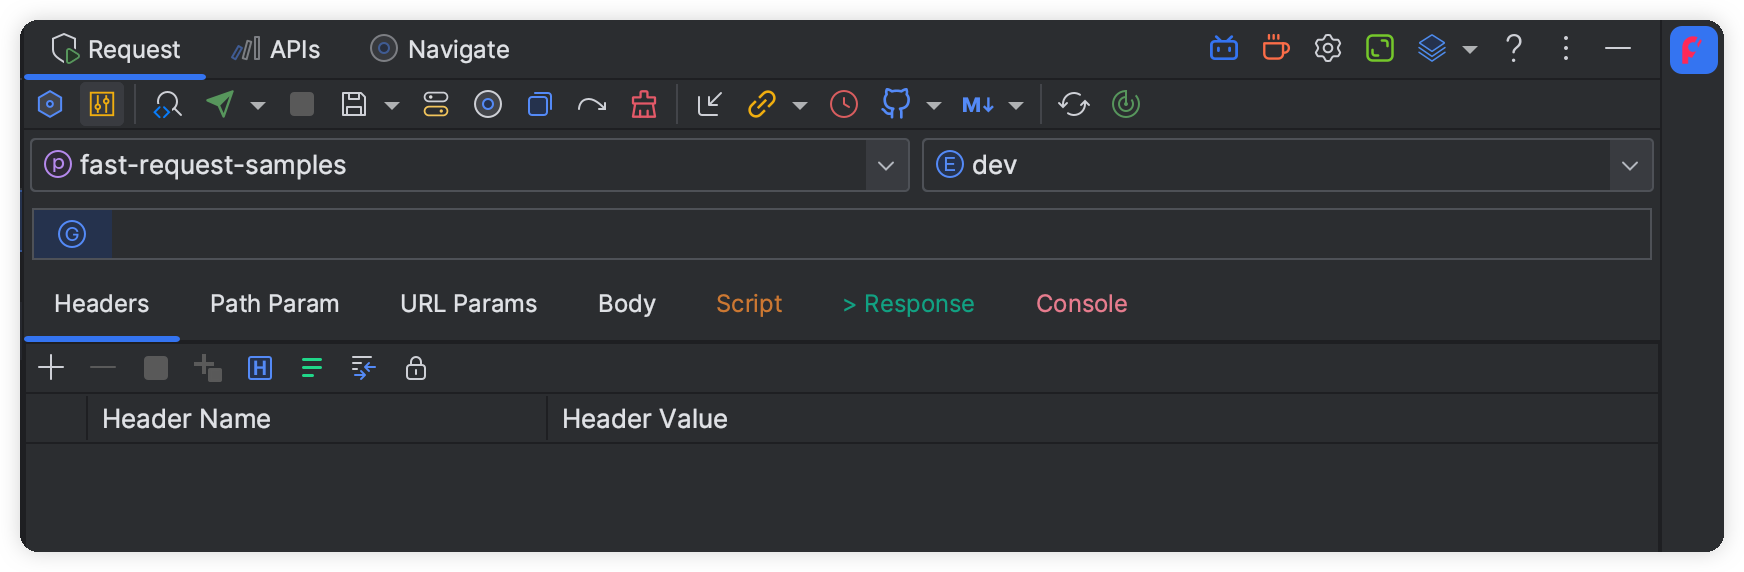
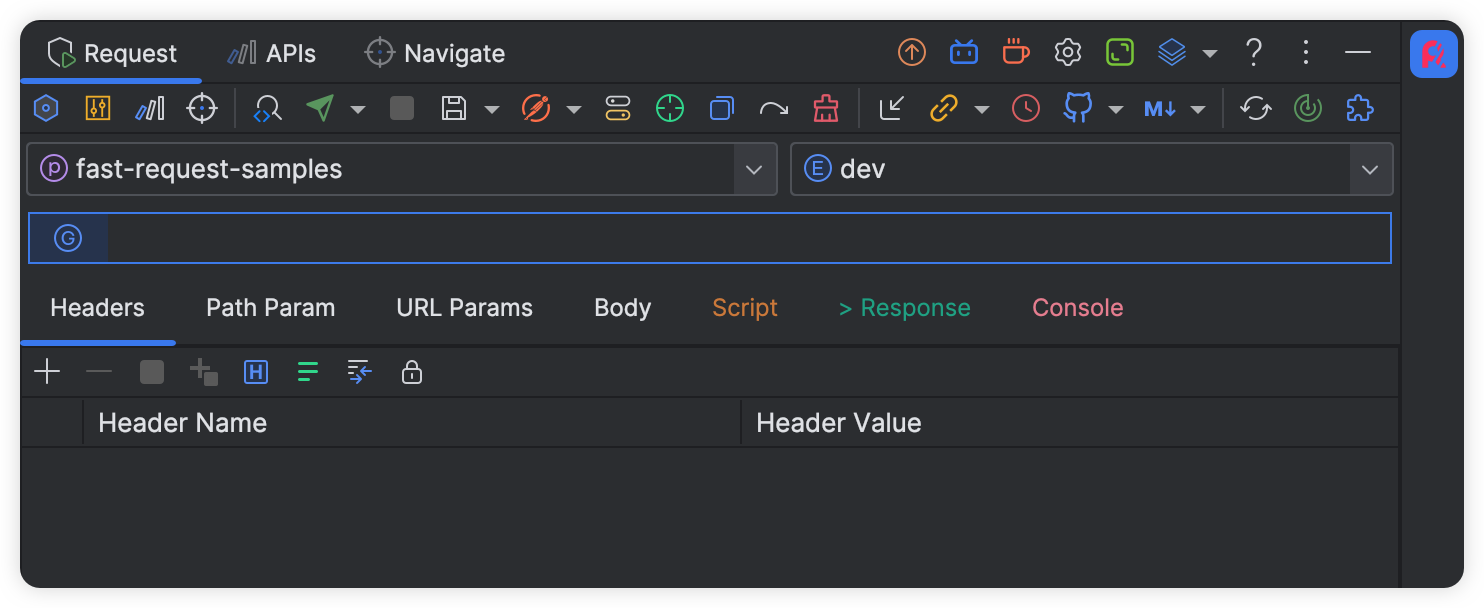
some doc

diff --git a/docs/.vuepress/sidebar.ts b/docs/.vuepress/sidebar.ts
@@ -65,6 +65,7 @@ export const enSidebar = sidebar({
         "ai",
         "headerGroup",
         "bulkEdit",
+        "customToolbar",  
         "jsonGrammarCheck",
       ],
     },
@@ -147,7 +148,8 @@ export const zhSidebar = sidebar({
         "autoDomain",
         "ai",
         "headerGroup",
-        "bulkEdit",
+        "bulkEdit", 
+        "customToolbar",
         "jsonGrammarCheck",
       ],
     },

diff --git a/docs/.vuepress/config.ts b/docs/.vuepress/config.ts
@@ -30,7 +30,7 @@ export default defineUserConfig({
     ],
     [
       "script",
-      { src: "//at.alicdn.com/t/c/font_2601581_8pffk35qiba.js", async: true },
+      { src: "//at.alicdn.com/t/c/font_2601581_qwqvhwcqtsl.js", async: true },
     ],
     // ["script", { src: "/js/baidu.js" ,"async":true}],
     ["script", { src: "/js/gtag.js", async: true }],

diff --git a/docs/en/guide/features/README.md b/docs/en/guide/features/README.md
@@ -6,27 +6,26 @@ icon: featuresNew
 
 The icon in the document corresponds to the button icon in the plugin
 
-![toolwindow](/img/toolwindowNew.png)
+![toolwindow](/img/toolwindowNew_en.png)
 
 ## Request
 
 - [<ColorIcon icon="restfulFastRequest" /> Make icon move](./makeIconMove.md)
 - [<ColorIcon icon="domainConfigNew" /> Project-level domain config](./projectLevelDomainConfig.md)
 - [<ColorIcon icon="environment" /> Environment](./environment.md)
-- [<ColorIcon icon="rcd-refresh" /> Project config refresh](./projectConfigRefresh.md)
 - [<ColorIcon icon="quanjucanshu" /> Project-level config](./projectValueConfig.md)
 - [<ColorIcon icon="searchApi" /> SearchEveryWhere](./searchEveryWhere.md)
-- [<ColorIcon icon="apiParamGroupNew" /> API group toggle](./apiGroup.md)
 - [<ColorIcon icon="sendNew" /> Debug API & send request](./debugApi.md)
 - [<ColorIcon icon="sendDownloadNew" /> Download file](./downloadApi.md)
 - [<ColorIcon icon="stop" /> Stop API request](./stopRequest.md)
-- [<ColorIcon icon="localScope" /> Navigate to current method](./navigateCurrentMethod.md)
-- [<ColorIcon icon="storeData" /> Navigate current method stored data](./navigateCurrentMethodJson.md)
 - [<ColorIcon icon="save" /> Save request](./saveRequest.md)
 - [<ColorIcon icon="saveGroup" /> Save API group](./apiGroup.md)
 - [<ColorIcon icon="saveTemp" /> Temporary request](./tempRequest.md)
-- [<ColorIcon icon="regenerate" /> Re generate](./regenerate.md)
 - [<ColorIcon icon="postmanNew" /> Postman sync](./postmanSync.md)
+- [<ColorIcon icon="apiParamGroupNew" /> API group toggle](./apiGroup.md)
+- [<ColorIcon icon="locate" /> Navigate to current method](./navigateCurrentMethod.md)
+- [<ColorIcon icon="storeData" /> Navigate current method stored data](./navigateCurrentMethodJson.md) 
+- [<ColorIcon icon="regenerate" /> Re generate](./regenerate.md)
 - [<ColorIcon icon="clearNew" /> Clear](./clear.md)
 - [<ColorIcon icon="import" /> cURL import](./curlImport.md)
 - [<ColorIcon icon="curl1" /> cURL copy](./copyCurl.md)
@@ -35,9 +34,14 @@ The icon in the document corresponds to the button icon in the plugin
 - [<ColorIcon icon="github" /> <ColorIcon icon="gitee" /> <ColorIcon icon="gitlab" /> API document sync](./apiDocSync.md)
 - [<ColorIcon icon="markdown" /> API document share](./shareApiDoc.md)
 - [<ColorIcon icon="settings" /> Markdown doc template config](./markdownDocTemplateConfig.md)
+- [<ColorIcon icon="rcd-refresh" /> Project config refresh](./projectConfigRefresh.md)
+- [<ColorIcon icon="analyseNew" /> Annual report](./annualReport.md)
+- [<ColorIcon icon="customToolbar" /> Custom toolbar](./customToolbar.md)
+
+---
+
 - [<ColorIcon icon="settings" /> Setting manager](./settingManager.md)
 - [<ColorIcon icon="fullScreen" /> Full screen](./fullScreen.md)
-- [<ColorIcon icon="analyseNew" /> Annual report](./annualReport.md)
 - [<ColorIcon icon="doc" /> Document / Contact](./docAndContact.md)
 - [<ColorIcon icon="license" /> EULA](../eula.md)
 
@@ -60,7 +64,7 @@ The icon in the document corresponds to the button icon in the plugin
 
 ## Navigate
 
-- [<ColorIcon icon="localScope" /> API navigate tree](./apiNavigateTree.md)
+- [<ColorIcon icon="locateNavigate" /> API navigate tree](./apiNavigateTree.md)
 
 ## Generate
 
@@ -73,7 +77,7 @@ The icon in the document corresponds to the button icon in the plugin
 - [<ColorIcon icon="restfulFastRequest" /> API list preview](./apiPreview.md)
 - [<ColorIcon icon="class" /> Api comment preview](./apiCommentPreview.md)
 - [<ColorIcon icon="field_dark" /> Parse strategy](./parseStrategy.md)
-- 
+
 ## Script
 
 - [<ColorIcon icon="scriptNew" /> Script](./script.md)

diff --git a/docs/guide/features/README.md b/docs/guide/features/README.md
@@ -13,20 +13,19 @@ icon: featuresNew
 - [<ColorIcon icon="restfulFastRequest" /> 让图标动起来](./makeIconMove.md)
 - [<ColorIcon icon="domainConfigNew" /> 项目域名配置](./projectLevelDomainConfig.md)
 - [<ColorIcon icon="environment" /> Environment](./environment.md)
-- [<ColorIcon icon="rcd-refresh" /> 项目配置刷新](./projectConfigRefresh.md)
 - [<ColorIcon icon="quanjucanshu" /> 项目级别全局参数支持](./projectValueConfig.md)
 - [<ColorIcon icon="searchApi" /> SearchEveryWhere](./searchEveryWhere.md)
-- [<ColorIcon icon="apiParamGroupNew" /> API 分组切换](./apiGroup.md)
 - [<ColorIcon icon="sendNew" /> 调试 API 发送请求](./debugApi.md)
 - [<ColorIcon icon="sendDownloadNew" /> 下载文件](./downloadApi.md)
 - [<ColorIcon icon="stop" /> 终止 API 请求功能](./stopRequest.md)
-- [<ColorIcon icon="localScope" /> 当前方法定位](./navigateCurrentMethod.md)
-- [<ColorIcon icon="storeData" /> 导航当前方法存储数据](./navigateCurrentMethodJson.md)
 - [<ColorIcon icon="save" /> 保存请求](./saveRequest.md)
 - [<ColorIcon icon="saveGroup" /> API 分组保存](./apiGroup.md)
 - [<ColorIcon icon="saveTemp" /> 临时请求](./tempRequest.md)
 - [<ColorIcon icon="postmanNew" /> Postman同步](./postmanSync.md)
-- [<ColorIcon icon="regenerate" /> 重新生成请求](./regenerate.md)
+- [<ColorIcon icon="apiParamGroupNew" /> API 分组切换](./apiGroup.md)
+- [<ColorIcon icon="locate" /> 当前方法定位](./navigateCurrentMethod.md)
+- [<ColorIcon icon="storeData" /> 导航当前方法存储数据](./navigateCurrentMethodJson.md)
+- [<ColorIcon icon="regenerate" /> 重新生成请求](./regenerate.md) 
 - [<ColorIcon icon="clearNew" /> 清除](./clear.md)
 - [<ColorIcon icon="import" /> cURL 导入](./curlImport.md)
 - [<ColorIcon icon="curl1" /> cURL 拷贝](./copyCurl.md)
@@ -35,9 +34,14 @@ icon: featuresNew
 - [<ColorIcon icon="github" /> <ColorIcon icon="gitee" /> <ColorIcon icon="gitlab" /> API 文档同步](./apiDocSync.md)
 - [<ColorIcon icon="markdown" /> API 文档分享](./shareApiDoc.md)
 - [<ColorIcon icon="settings" /> Markdown文档模板配置](./markdownDocTemplateConfig.md)
+- [<ColorIcon icon="rcd-refresh" /> 项目配置刷新](./projectConfigRefresh.md)
+- [<ColorIcon icon="analyseNew" /> 年度报告](./annualReport.md) 
+- [<ColorIcon icon="customToolbar" /> 自定义工具栏](./customToolbar.md)
+
+---
+
 - [<ColorIcon icon="settings" /> 管理配置](./settingManager.md)
 - [<ColorIcon icon="fullScreen" /> 全屏](./fullScreen.md)
-- [<ColorIcon icon="analyseNew" /> 年度报告](./annualReport.md)
 - [<ColorIcon icon="doc" /> 文档/快速联系](./docAndContact.md)
 - [<ColorIcon icon="license" /> EULA](../eula.md)
 
@@ -53,14 +57,14 @@ icon: featuresNew
 
 ## Apis
 
-- [<ColorIcon icon="localScope" /> API 列表](./apiList.md)
+- [<ColorIcon icon="apis" /> API 列表](./apiList.md)
 - [<ColorIcon icon="postman" /> API 导出到 Postman](./apiToPostman.md)
 - [<ColorIcon icon="export" /> APIs 导入导出](./apiImportExport.md)
 - [<ColorIcon icon="markdown" /> 批量导出 API 文档](./batchExportApiDoc.md)
 
 ## Navigate
 
-- [<ColorIcon icon="localScope" /> API 导航树](./apiNavigateTree.md)
+- [<ColorIcon icon="locateNavigate" /> API 导航树](./apiNavigateTree.md)
 
 ## Generate
 

diff --git a/docs/guide/history.md b/docs/guide/history.md
@@ -27,6 +27,13 @@ Issue 提报请到[_Github_](https://github.com/dromara/fast-request/issues)
 ## 2024.1.2 <Badge text="免费试用" type="tip"/> <Badge text="最新版" color="pink"/> <Badge text="2024-01-19" color="SandyBrown"/>
 - <Badge text="自定义工具栏" color="orange"/>
 
+::: hint 自定义工具栏 <Badge vertical="top" text="重要功能" color="orange"/>
+
+![customToolbar](/img/2024.1.2/customToolbar.png)
+
+使用自定义工具栏，选择自己需要使用的功能，将其他功能按钮进行隐藏，设置完成需要重启 IDEA
+:::
+
 
 ## 2024.1.1 <Badge text="免费试用" type="tip"/> <Badge text="2024-01-15" color="SandyBrown"/>
 

diff --git a/docs/en/guide/history.md b/docs/en/guide/history.md
@@ -26,6 +26,12 @@ Join and follow us to solve your question ❤❤❤↓↓↓
 ## 2024.1.2 <Badge text="Free trial" type="tip"/> <Badge text="Newest version" color="pink"/> <Badge text="2024-01-19" color="SandyBrown"/>
 - <Badge text="Custom toolbar" color="orange"/>
 
+::: hint Custom toolbar <Badge vertical="top" text="Important feature" color="orange"/>
+
+![customToolbar](/img/2024.1.2/customToolbar_en.png)
+
+Using the custom toolbar option, select the functionalities you want to use and hide other function buttons. Then restart IDEA.
+:::
 
 ## 2024.1.1 <Badge text="Free trial" type="tip"/>  <Badge text="2024-01-15" color="SandyBrown"/>
 

diff --git a/docs/guide/features/apiNavigateTree.md b/docs/guide/features/apiNavigateTree.md
@@ -5,10 +5,12 @@
 
 版本要求: <Badge text="2.0.7"/>
 
-选中树输入关键字，再按回车或者鼠标左键双击即可定位到 API
+::: tip
+1. 选中树输入关键字，再按回车或者鼠标左键双击即可定位到 API
 
-悬浮鼠标显示 api 的 doc
+2. 悬浮鼠标显示 api 的 doc
 
-API Navigate 树需要点击刷新按钮，同样每次新增了 API 你也需要刷新才能得到
+3. API Navigate 树需要点击刷新按钮，同样每次新增了 API 你也需要刷新才能得到
+:::
 
 ![apinavi](/img/apinav.gif)

diff --git a/docs/en/guide/features/apiNavigateTree.md b/docs/en/guide/features/apiNavigateTree.md
@@ -2,7 +2,7 @@
 
 Version required: <Badge text="2.0.7"/>
 
-```
+::: tip
 1. Select the tree, enter keywords, and press Enter again or double-click the left mouse button to locate the API.
 
 2. Hover the mouse to display the doc of the API.
@@ -11,6 +11,6 @@ Version required: <Badge text="2.0.7"/>
 
 4. Lazy loading helps to speed up idea startup.
 
-```
+:::
 
 ![apinavi](/img/apinav.gif)

diff --git a/docs/en/guide/features/customToolbar.md b/docs/en/guide/features/customToolbar.md
@@ -1,0 +1,7 @@
+# Custom toolbar
+
+Version required: <Badge text="2024.2.1" />
+
+![customToolbar](/img/2024.1.2/customToolbar_en.png)
+
+Using the custom toolbar option, select the functionalities you want to use and hide other function buttons. Then restart IDEA.

diff --git a/docs/guide/features/customToolbar.md b/docs/guide/features/customToolbar.md
@@ -1,0 +1,7 @@
+# 自定义工具栏
+
+版本要求: <Badge text="2024.2.1" />
+
+![customToolbar](/img/2024.1.2/customToolbar.png)
+
+使用自定义工具栏，选择自己需要使用的功能，将其他功能按钮进行隐藏，设置完成需要重启 IDEA
